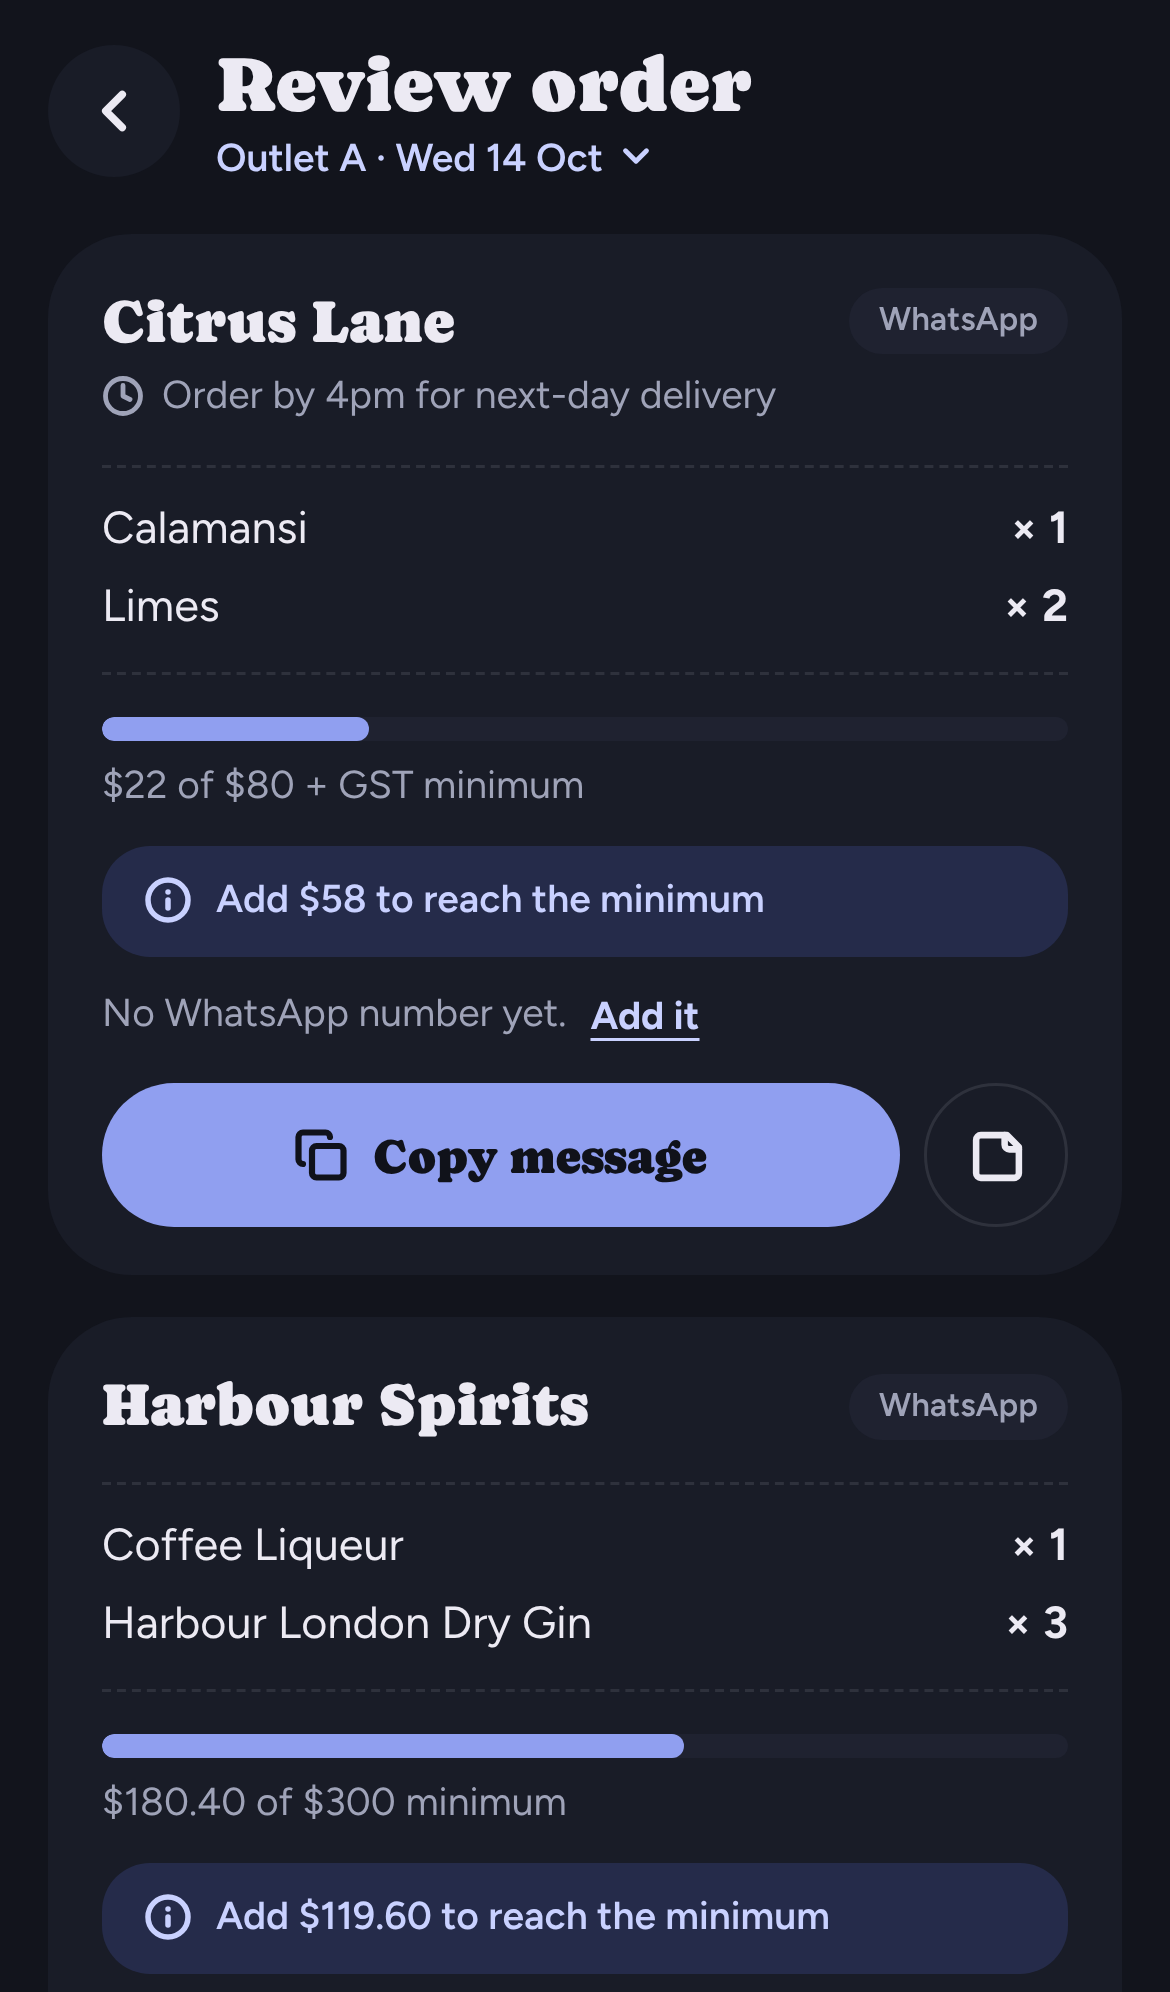
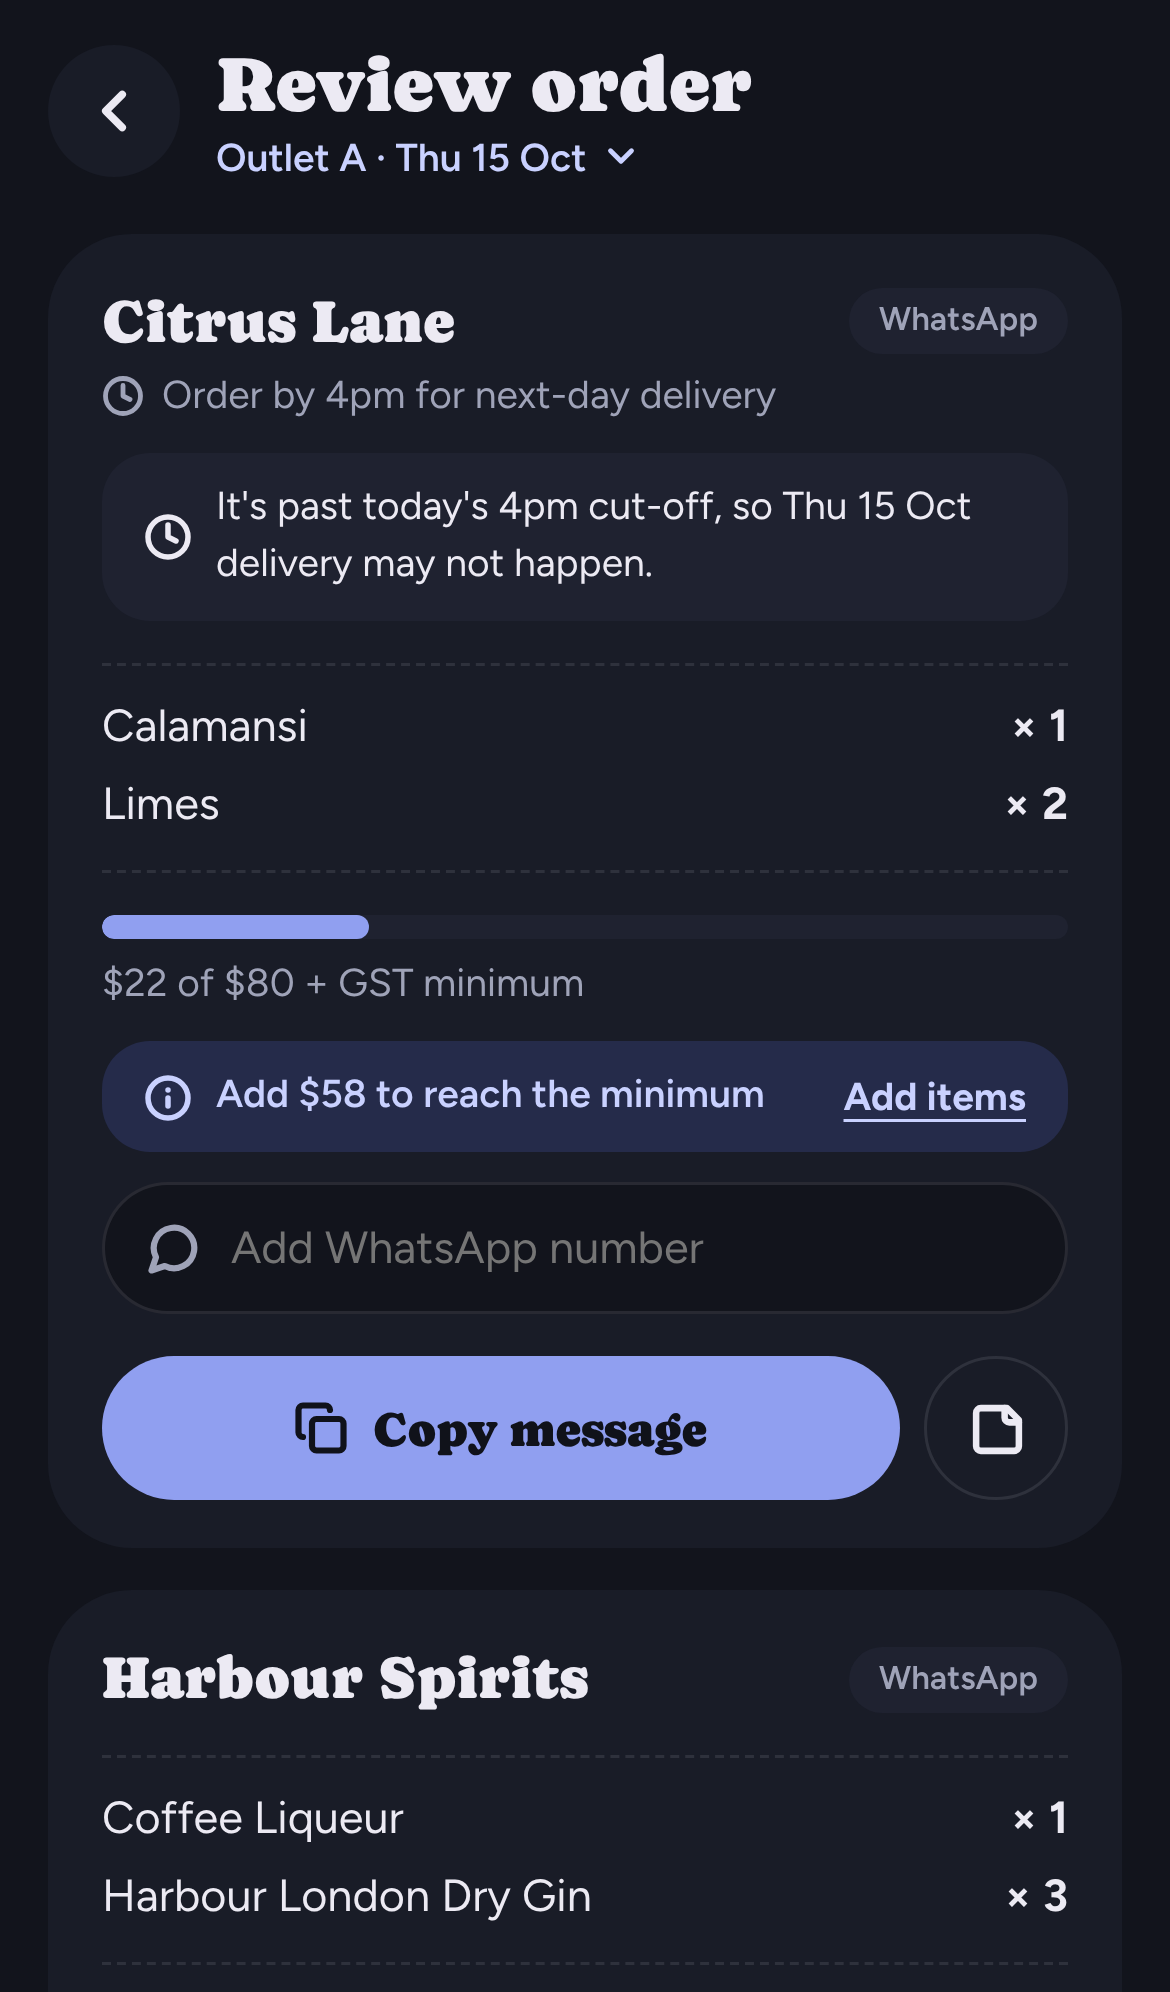
README: new screenshots for the updated ordering flow
Shows the In my order / Cocktails chips, the review card with the
cut-off warning, Add items and number field, the "Sent?" check after
WhatsApp, and History with several sent orders.

Claude-Session: https://claude.ai/code/session_01YbYqrS8mPv9L4opQ2hBNXy

diff --git a/README.md b/README.md
@@ -5,10 +5,11 @@ A phone-first web app that turns a bar's weekly supplier ordering into a few tap
 **[Live demo →](https://ruty27.github.io/Ordering-App/)** (runs on sample data; add it to your home screen to use it like an app)
 
 <p>
-  <img src="docs/screenshots/items.png" alt="Items tab: search, supplier and cocktail chips, quantity controls and the Review order button" width="200">
-  <img src="docs/screenshots/review.png" alt="Review order: one card per supplier with a minimum-order bar and a reminder of how much to add" width="200">
+  <img src="docs/screenshots/items.png" alt="Items tab: In my order, All and Cocktails chips, quantity controls and the Review order button" width="200">
+  <img src="docs/screenshots/review.png" alt="Review order card with a cut-off warning, an Add items link to reach the minimum, and a WhatsApp number field" width="200">
   <img src="docs/screenshots/send.png" alt="Send sheet previewing the WhatsApp message before it opens" width="200">
-  <img src="docs/screenshots/history.png" alt="History tab with sent orders and a Repeat button" width="200">
+  <img src="docs/screenshots/sent-check.png" alt="After WhatsApp: 'Sent to Harbour Spirits?' with Yes, sent / Open WhatsApp again / Not yet" width="200">
+  <img src="docs/screenshots/history.png" alt="History tab with today's sent orders and Repeat buttons" width="200">
   <img src="docs/screenshots/dark.png" alt="Review order in dark mode" width="200">
 </p>
 
